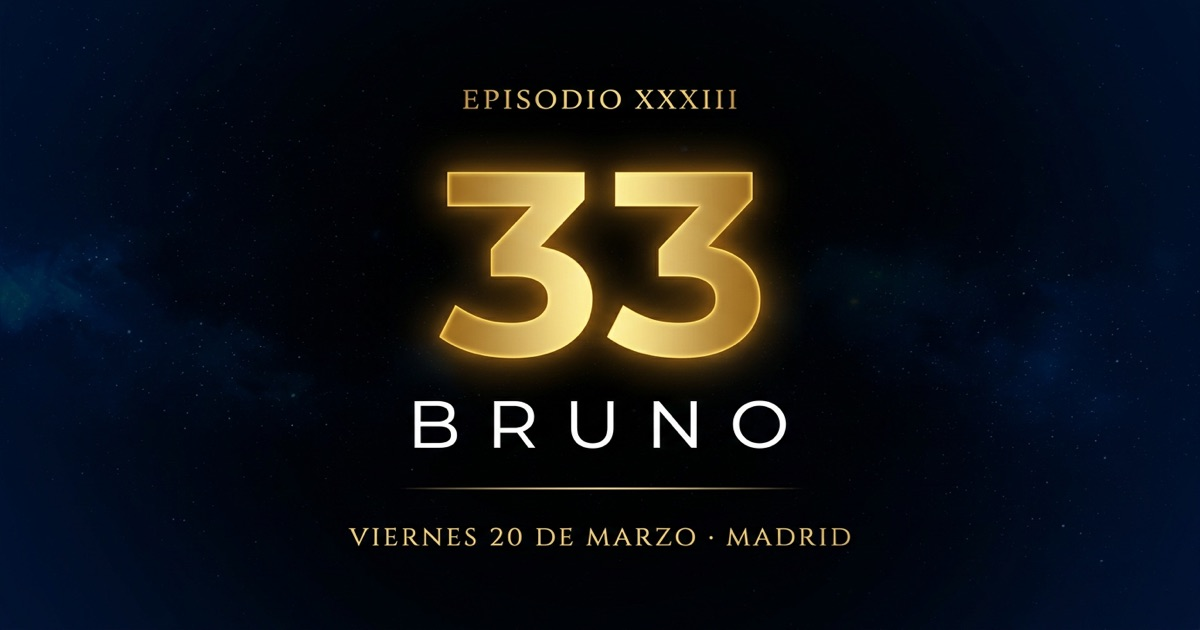
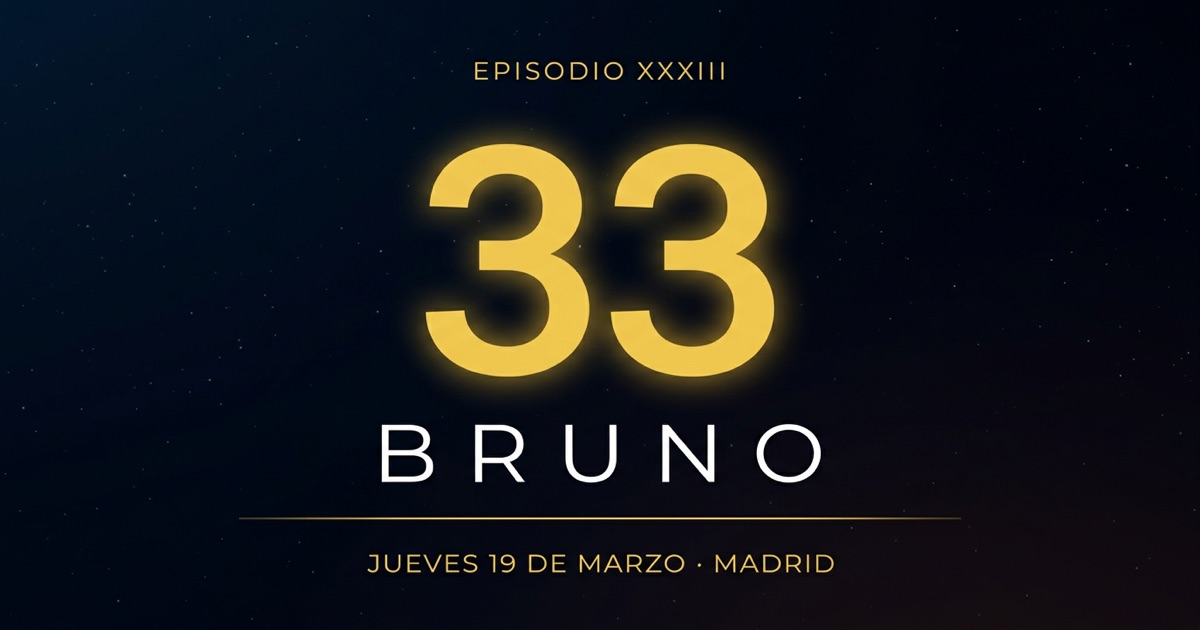
Fix confirmation fine text (Jueves 19) and update OG image
Made-with: Cursor

diff --git a/index.html b/index.html
@@ -977,9 +977,9 @@ function getAllNames() {
 
 /* ── CONFIRM ── */
 const inResponses = [
-  { icon: '⚡', title: '¡Bienvenido a la Alianza!', msg: 'Tu nombre está registrado en los archivos rebeldes. Nos vemos el jueves.', fine: 'Trastevere · 19:30 · Jueves 20' },
-  { icon: '🚀', title: 'Coordenadas recibidas', msg: 'La Alianza te espera. Zapatos cómodos y sin preguntas.', fine: 'Trastevere · 19:30 · Jueves 20' },
-  { icon: '✨', title: '¡La Fuerza es fuerte contigo!', msg: 'Misión aceptada. El resto se revela en el bar.', fine: 'Trastevere · 19:30 · Jueves 20' },
+  { icon: '⚡', title: '¡Bienvenido a la Alianza!', msg: 'Tu nombre está registrado en los archivos rebeldes. Nos vemos el jueves.', fine: 'Trastevere · 19:30 · Jueves 19' },
+  { icon: '🚀', title: 'Coordenadas recibidas', msg: 'La Alianza te espera. Zapatos cómodos y sin preguntas.', fine: 'Trastevere · 19:30 · Jueves 19' },
+  { icon: '✨', title: '¡La Fuerza es fuerte contigo!', msg: 'Misión aceptada. El resto se revela en el bar.', fine: 'Trastevere · 19:30 · Jueves 19' },
 ];
 
 const outResponses = [
